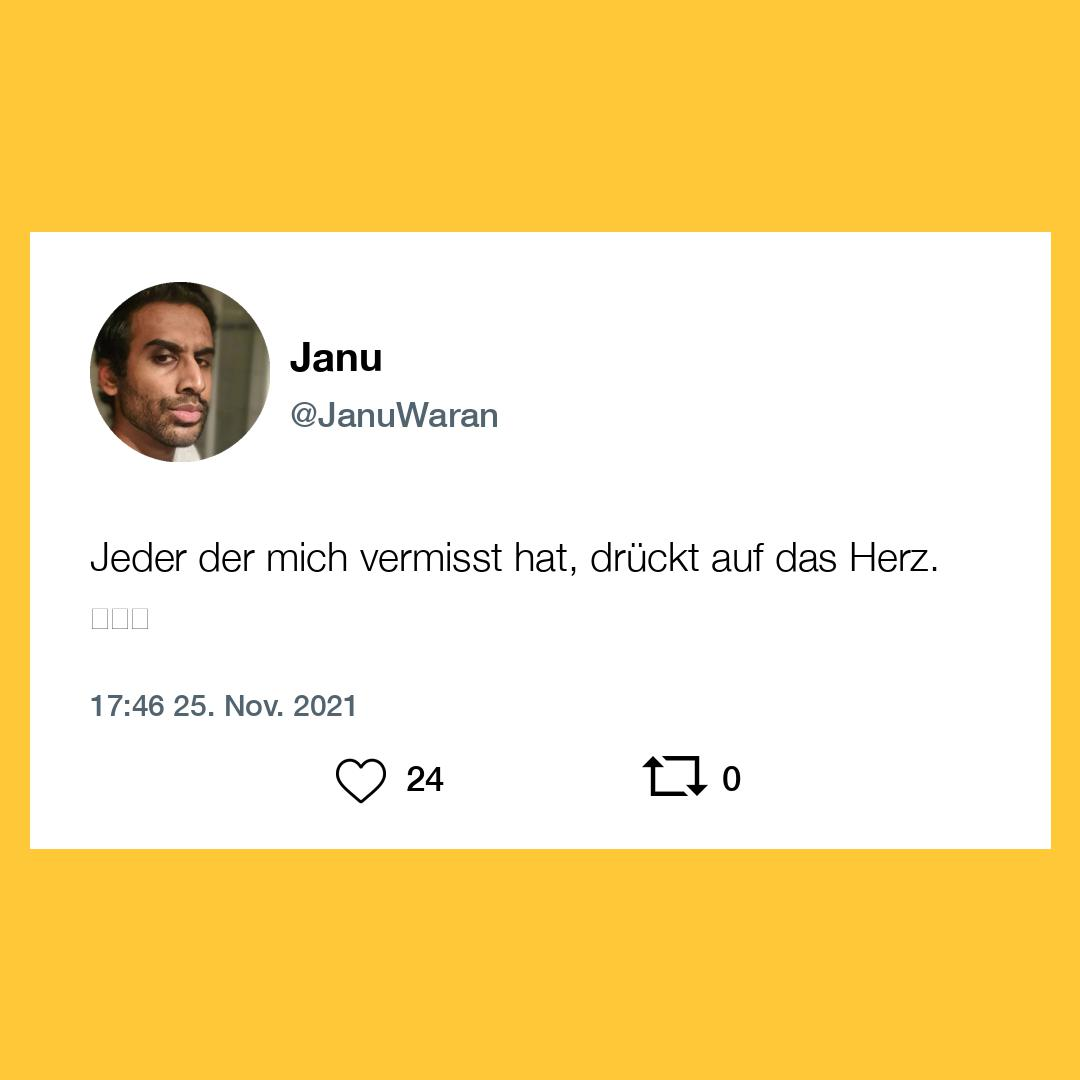
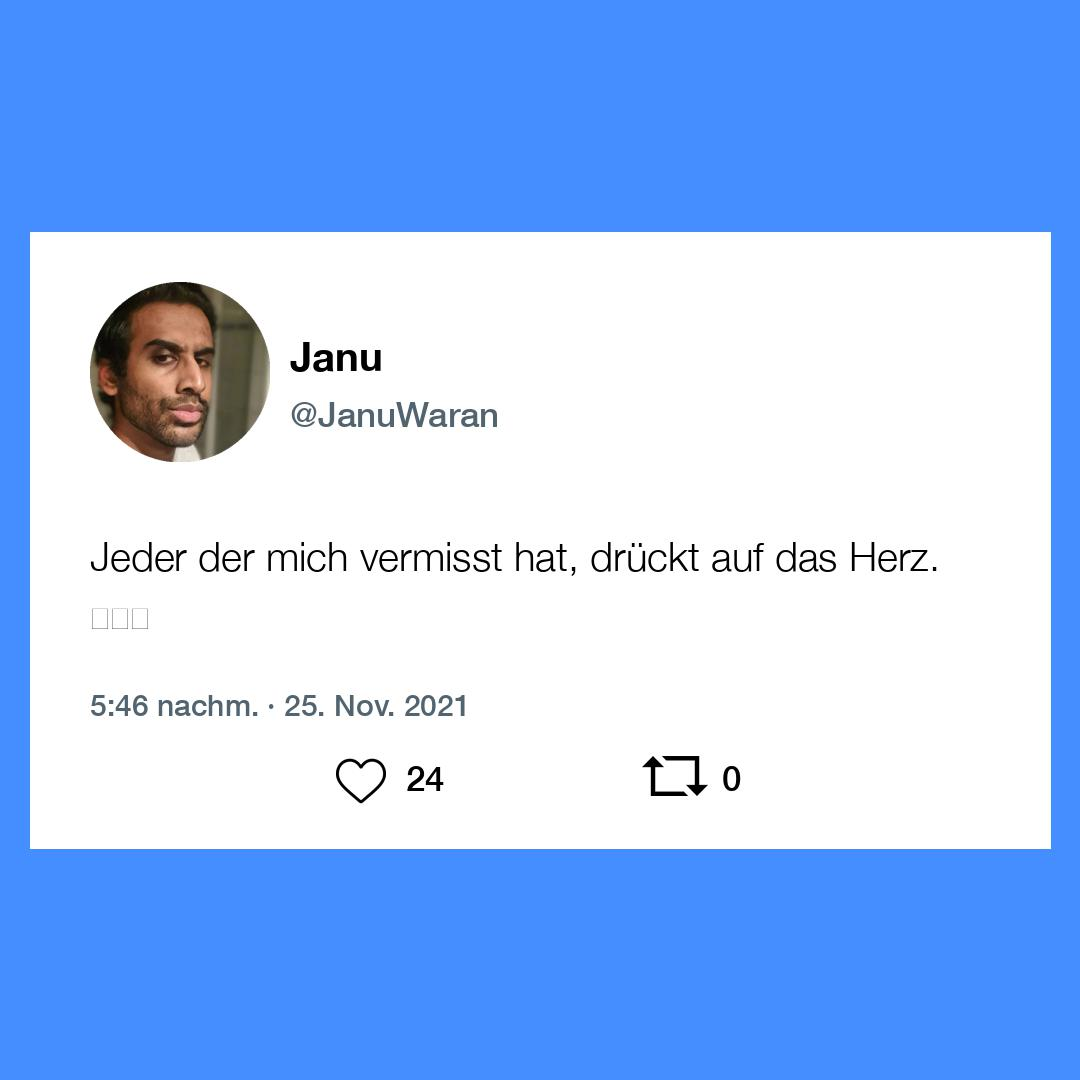
Date AM/PM format

diff --git a/main.py b/main.py
@@ -286,7 +286,15 @@ def tweet_to_image(name, username, showFavsRt, show_date, tweet, tweet_timestamp
         tweet_timestamp3 = tweet_timestamp2[2].split(" ")
         tweet_timestamp4 = tweet_timestamp3[1].split(":")
         months = ["Jan.", "Feb.", "März", "Apr.", "Mai", "Juni", "Juli", "Aug.", "Sep.", "Okt.", "Nov.", "Dez."]
-        tweet_timestamp = tweet_timestamp4[0]+":"+tweet_timestamp4[1]+" "+tweet_timestamp3[0]+". "+months[int(tweet_timestamp2[1])+1]+" "+tweet_timestamp2[0]
+        if int(tweet_timestamp4[0]) == 0:
+          tweet_timestamp4[0] = "12"
+        if int(tweet_timestamp4[0]) < 12:
+          tweet_timestamp4[1] += " vorm."
+        else:
+          tweet_timestamp4[1] += " nachm."
+          if int(tweet_timestamp4[0]) != 12:
+            tweet_timestamp4[0] = str(int(tweet_timestamp4[0])-12)
+        tweet_timestamp = tweet_timestamp4[0]+":"+tweet_timestamp4[1]+" · "+tweet_timestamp3[0]+". "+months[int(tweet_timestamp2[1])+1]+" "+tweet_timestamp2[0]
         draw.text((tweet_w, fr_offset-20),tweet_timestamp,(83,100,113),font=date_font)
     img.save("tweet_images/" + str(tweet_id) + ".jpg")
     print("tweet_images/" + str(tweet_id) + ".jpg saved.")
